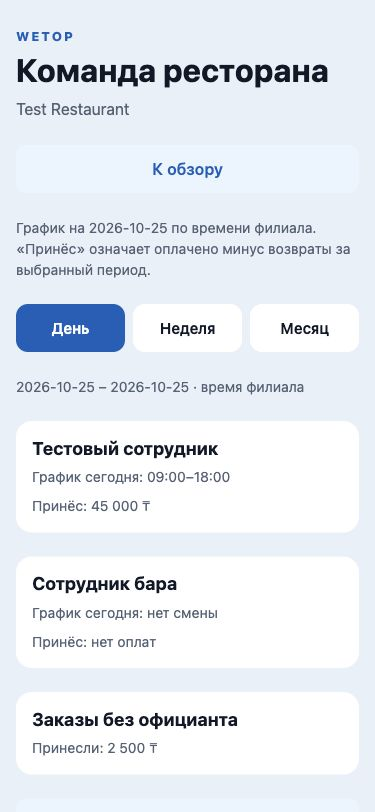
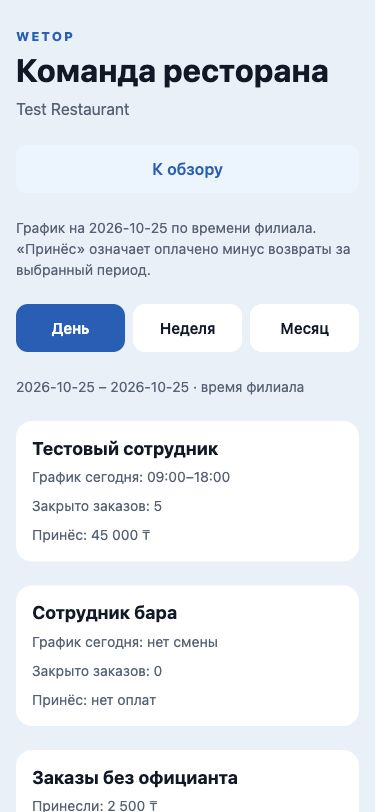
feat(mobile): count closed orders per restaurant staff

Changed region(s): [[0.088, 0.7081, 0.6453, 1.0], [0.088, 0.6158, 0.44, 0.6773]]

diff --git a/apps/mobile/src/app/restaurant-team.tsx b/apps/mobile/src/app/restaurant-team.tsx
@@ -4,7 +4,7 @@ import { ActivityIndicator, Pressable, Text, View } from 'react-native';
 import { useAccess } from '../auth/provider';
 import { accessMessage } from '../auth/session';
 import { money } from '../restaurant/data';
-import { localDate } from '../restaurant/reports';
+import { localDate, readAnalytics } from '../restaurant/reports';
 import {
   readShifts,
   readStaffRevenue,
@@ -36,6 +36,8 @@ function Team({ timezone, branch }: { timezone: string; branch: string }) {
   const [shifts, setShifts] = useState<Shift[]>([]);
   const [revenue, setRevenue] = useState<StaffRevenue | null>(null);
   const [revenueError, setRevenueError] = useState('');
+  const [ordersError, setOrdersError] = useState('');
+  const [orderCounts, setOrderCounts] = useState<Map<string, number> | null>(null);
   const [error, setError] = useState('');
   const [loading, setLoading] = useState(true);
   const today = localDate(new Date(), timezone);
@@ -45,6 +47,8 @@ function Team({ timezone, branch }: { timezone: string; branch: string }) {
     setLoading(true);
     setError('');
     setRevenueError('');
+    setOrdersError('');
+    setOrderCounts(null);
     setRevenue(null);
     void (async () => {
       try {
@@ -55,8 +59,19 @@ function Team({ timezone, branch }: { timezone: string; branch: string }) {
         if (!active) return;
         if (shiftValue.status === 'rejected') throw shiftValue.reason;
         setShifts(readShifts(shiftValue.value));
-        if (revenueValue.status === 'fulfilled') setRevenue(readStaffRevenue(revenueValue.value));
-        else setRevenueError(accessMessage(revenueValue.reason));
+        if (revenueValue.status === 'fulfilled') {
+          const report = readStaffRevenue(revenueValue.value);
+          setRevenue(report);
+          try {
+            const orders = readAnalytics(
+              await session.readReport('analytics', report.fromDate, report.toDate),
+            );
+            if (active)
+              setOrderCounts(new Map(orders.waiters.map((row) => [row.waiterId, row.orders])));
+          } catch (cause) {
+            if (active) setOrdersError(accessMessage(cause));
+          }
+        } else setRevenueError(accessMessage(revenueValue.reason));
       } catch (cause) {
         if (active) setError(accessMessage(cause));
       } finally {
@@ -70,7 +85,7 @@ function Team({ timezone, branch }: { timezone: string; branch: string }) {
   const card = { padding: 16, borderRadius: 16, gap: 8, backgroundColor: theme.surface } as const;
   const heading = { fontSize: 18, fontWeight: '700', color: theme.text } as const;
   const secondary = { fontSize: 14, lineHeight: 21, color: theme.secondary } as const;
-  const rows = teamRows(shifts, revenue);
+  const rows = teamRows(shifts, revenue, orderCounts);
   return (
     <Screen title="Команда ресторана" subtitle={branch}>
       <ActionButton
@@ -125,6 +140,11 @@ function Team({ timezone, branch }: { timezone: string; branch: string }) {
           <Text style={{ ...secondary, color: theme.danger }}>{error}</Text>
         </View>
       ) : null}
+      {ordersError ? (
+        <View style={card}>
+          <Text style={secondary}>Число закрытых заказов недоступно: {ordersError}</Text>
+        </View>
+      ) : null}
       {revenueError ? (
         <View style={card}>
           <Text style={secondary}>Показатель «Принёс» недоступен: {revenueError}</Text>
@@ -152,6 +172,9 @@ function Team({ timezone, branch }: { timezone: string; branch: string }) {
                     ? slots.map((slot) => `${slot.timeFrom}–${slot.timeTo}`).join(', ')
                     : 'нет смены'}
                 </Text>
+                {row.orders !== null ? (
+                  <Text style={secondary}>Закрыто заказов: {row.orders}</Text>
+                ) : null}
                 {revenue ? (
                   <Text style={secondary}>
                     Принёс:{' '}

diff --git a/apps/web/src/lib/mobile-food-gateway.test.ts b/apps/web/src/lib/mobile-food-gateway.test.ts
@@ -560,7 +560,9 @@ describe('mobile restaurant report boundary', () => {
           BAR: [{ name: 'Кофе', qty: 10, revenueMinor: '120000' }],
         },
         revenueByDay: [{ date: '2026-10-24', revenueMinor: '1200000', orders: 20 }],
-        waiters: [{ name: 'Тестовый сотрудник', orders: 5, revenueMinor: '400000' }],
+        waiters: [
+          { waiterId: 'employee-1', name: 'Тестовый сотрудник', orders: 5, revenueMinor: '400000' },
+        ],
         internal: 'drop',
       });
     });
@@ -583,6 +585,7 @@ describe('mobile restaurant report boundary', () => {
     expect(period.revenueMinor).toBe('1200000');
     expect(period.payments[0].amountMinor).toBe('500000');
     expect(period.topByStation.BAR[0].name).toBe('Кофе');
+    expect(period.waiters[0].waiterId).toBe('employee-1');
     expect(JSON.stringify(period)).not.toContain('drop');
   });
 });

diff --git a/apps/mobile/src/restaurant/reports.ts b/apps/mobile/src/restaurant/reports.ts
@@ -26,7 +26,7 @@ export type Analytics = {
     BAR: { name: string; qty: number; revenueMinor: string }[];
   };
   revenueByDay: { date: string; revenueMinor: string; orders: number }[];
-  waiters: { name: string; orders: number; revenueMinor: string }[];
+  waiters: { waiterId: string; name: string; orders: number; revenueMinor: string }[];
 };
 import { AccessError } from '../auth/contracts';
 function obj(v: unknown): Record<string, unknown> {
@@ -102,7 +102,12 @@ export function readAnalytics(value: unknown): Analytics {
     }),
     waiters: rows(v.waiters, (value) => {
       const r = obj(value);
-      return { name: str(r.name), orders: number(r.orders), revenueMinor: minor(r.revenueMinor) };
+      return {
+        waiterId: str(r.waiterId),
+        name: str(r.name),
+        orders: number(r.orders),
+        revenueMinor: minor(r.revenueMinor),
+      };
     }),
   };
 }

diff --git a/apps/mobile/tests/restaurant-team.test.tsx b/apps/mobile/tests/restaurant-team.test.tsx
@@ -53,3 +53,22 @@ test('paid contribution from a former shift member is not silently lost', () => 
   });
   expect(unlistedRevenue([], revenue)).toEqual([{ currency: 'KZT', netMinor: '75' }]);
 });
+
+test('closed-order count joins by employee ID, not by matching names', () => {
+  const shifts = readShifts({
+    employees: [
+      { id: 'a', name: 'Сотрудник', week: [] },
+      { id: 'b', name: 'Сотрудник', week: [] },
+    ],
+  });
+  expect(
+    teamRows(
+      shifts,
+      null,
+      new Map([
+        ['a', 3],
+        ['b', 1],
+      ]),
+    ).map((row) => row.orders),
+  ).toEqual([3, 1]);
+});

diff --git a/apps/mobile/tests/restaurant-reports.test.tsx b/apps/mobile/tests/restaurant-reports.test.tsx
@@ -33,7 +33,9 @@ test('owner reports preserve canonical closed-order revenue separately from paym
       BAR: [{ name: 'Кофе', qty: 10, revenueMinor: '120000' }],
     },
     revenueByDay: [{ date: '2026-10-24', revenueMinor: '1200000', orders: 20 }],
-    waiters: [{ name: 'Тестовый сотрудник', orders: 5, revenueMinor: '400000' }],
+    waiters: [
+      { waiterId: 'employee-1', name: 'Тестовый сотрудник', orders: 5, revenueMinor: '400000' },
+    ],
   });
   expect(period.revenueMinor).toBe('1200000');
   expect(period.payments[0]?.amountMinor).toBe('500000');

diff --git a/apps/mobile/src/restaurant/team.ts b/apps/mobile/src/restaurant/team.ts
@@ -79,10 +79,15 @@ export function readStaffRevenue(value: unknown): StaffRevenue {
     }),
   };
 }
-export function teamRows(shifts: Shift[], revenue: StaffRevenue | null) {
+export function teamRows(
+  shifts: Shift[],
+  revenue: StaffRevenue | null,
+  counts: Map<string, number> | null = null,
+) {
   return shifts.map((shift) => ({
     ...shift,
     net: revenue?.items.filter((row) => row.employeeId === shift.id) ?? [],
+    orders: counts?.get(shift.id) ?? (counts ? 0 : null),
   }));
 }
 

diff --git a/apps/api/src/food-service/restaurant.service.ts b/apps/api/src/food-service/restaurant.service.ts
@@ -2040,6 +2040,7 @@ export class RestaurantService {
         .sort((a, b) => Number(BigInt(b.revenueMinor) - BigInt(a.revenueMinor)) || a.name.localeCompare(b.name, 'ru')),
       waiters: waiters
         .map((x) => ({
+          waiterId: x.waiterId!,
           name: names.get(x.waiterId!) ?? '—',
           orders: x._count._all,
           revenueMinor: (x._sum.total ?? 0n).toString(),

diff --git a/apps/web/src/lib/mobile-food-gateway.ts b/apps/web/src/lib/mobile-food-gateway.ts
@@ -268,6 +268,7 @@ function analyticsDto(value: unknown): JsonRecord {
     waiters: source.waiters.map((value) => {
       const row = record(value);
       return {
+        waiterId: nonEmptyString(row.waiterId),
         name: nonEmptyString(row.name),
         orders: integer(row.orders),
         revenueMinor: minorUnits(row.revenueMinor),

diff --git a/reports/mobile-restaurant-team-2026-10-25/REPORT.md b/reports/mobile-restaurant-team-2026-10-25/REPORT.md
@@ -1,7 +1,11 @@
 # Команда ресторана на мобильном экране
 
-Дата: 25.10.2026 UTC. Локальная синтетическая fixture, никаких данных реального объекта. На ширине 375 px экран показывает график, «Принёс» по серверной формуле и заказы без официанта. Горизонтальной прокрутки и ошибок консоли нет. Снимок: [team-375.png](team-375.png).
+Дата: 25.10.2026 UTC. Локальная синтетическая fixture, никаких данных реального объекта. На ширине 375 px экран показывает график, число закрытых заказов, «Принёс» по серверной формуле и заказы без официанта. Горизонтальной прокрутки и ошибок консоли нет. Снимок: [team-375.png](team-375.png).
 
 Суммы персонала сопоставлены по ID, не по ФИО. Сотрудник вне текущего графика не теряет историческую оплату: она выводится отдельной строкой. Недоступность финансового права не должна скрывать сам график. Нативное устройство и production gateway отдельно не проверены.
 
-Проверки на итоговом коде: mobile 45/45, gateway 17/17, mobile-types и web typecheck без ошибок, lint мобильного клиента и шлюза без ошибок, Expo export для iOS/Android/Web прошёл. Эти проверки не равны запуску на нативном устройстве.
+Проверки на итоговом коде: mobile 46/46, gateway 17/17, mobile-types и web typecheck без ошибок, lint мобильного клиента и шлюза без ошибок, Expo export для iOS/Android/Web прошёл. Эти проверки не равны запуску на нативном устройстве.
+
+Число закрытых заказов сопоставлено по ID из period-report; два сотрудника с одинаковым именем не смешиваются.
+
+После добавления счётчика повторены: mobile 46/46, gateway 17/17, mobile-types, API/Web typecheck, lint, Expo export iOS/Android/Web. Экран 375 px без горизонтальной прокрутки и ошибок консоли.

diff --git a/docs/status/2026-10-25-wetop-mobile.md b/docs/status/2026-10-25-wetop-mobile.md
@@ -6,6 +6,10 @@
 
 Следующий read-only срез: команда ресторана. График филиала и показатель «Принёс» за день, неделю, месяц соединены по ID. Контакты и ревизии не отдаются в приложение; суммы без официанта и вне текущего состава не теряются. Синтетический экран 375 px проверен. Создание и расчёт заказа всё ещё требуют отдельного решения по MOBILE-FOOD-1 и проверок денежного сценария.
 
-Проверки команды: mobile 45/45, gateway 17/17, mobile-types и web typecheck, lint, Expo export iOS/Android/Web. Серверный код этого среза не меняет модель данных и не использует общую dev-базу.
+Проверки команды: mobile 46/46, gateway 17/17, mobile-types и web typecheck, lint, Expo export iOS/Android/Web. Серверный код этого среза не меняет модель данных и не использует общую dev-базу.
 
 Подготовлена read-only карта салонных API в `plans/mobile-salon-api-audit-2026-10-25.md`. По стоп-меню зафиксирован MOBILE-FOOD-2: значение `active=false` и временный стоп-лист не отождествляются без решения владельца.
+
+Команда дополнена количеством закрытых заказов за период. Серверный period-report отдаёт waiterId, мобильный gateway фильтрует его, соединение по имени исключено.
+
+Проверки счётчика: mobile 46/46, gateway 17/17, mobile-types, API/Web typecheck, lint, Expo export iOS/Android/Web.

diff --git a/docs/decisions/2026-10-25-wetop-mobile-team.md b/docs/decisions/2026-10-25-wetop-mobile-team.md
@@ -10,4 +10,4 @@
 
 Причина: сохранить утверждённую финансовую формулу из `docs/decisions/2026-10-20-personnel-revenue.md`, не раскрывать личные контакты и не терять исторические оплаты.
 
-Последствия: график является недельным шаблоном, а не фактом явки. При отсутствии права на финансовый отчёт список смен остаётся доступным с сообщением об отсутствии показателя. Количество закрытых заказов на карточке пока не показывается, поскольку текущий period-report не отдаёт ID официанта для надёжного сопоставления. Gateway остаётся выключенным в production до отдельного разрешения.
+Последствия: график является недельным шаблоном, а не фактом явки. При отсутствии права на финансовый отчёт список смен остаётся доступным с сообщением об отсутствии показателя. Количество закрытых заказов за тот же период читается из period-report. API-ответ расширен waiterId, gateway возвращает его, приложение соединяет показатели по ID. Если отчёт заказов недоступен, сумма оплат и график остаются видимыми, число заказов скрывается. Gateway остаётся выключенным в production до отдельного разрешения.
